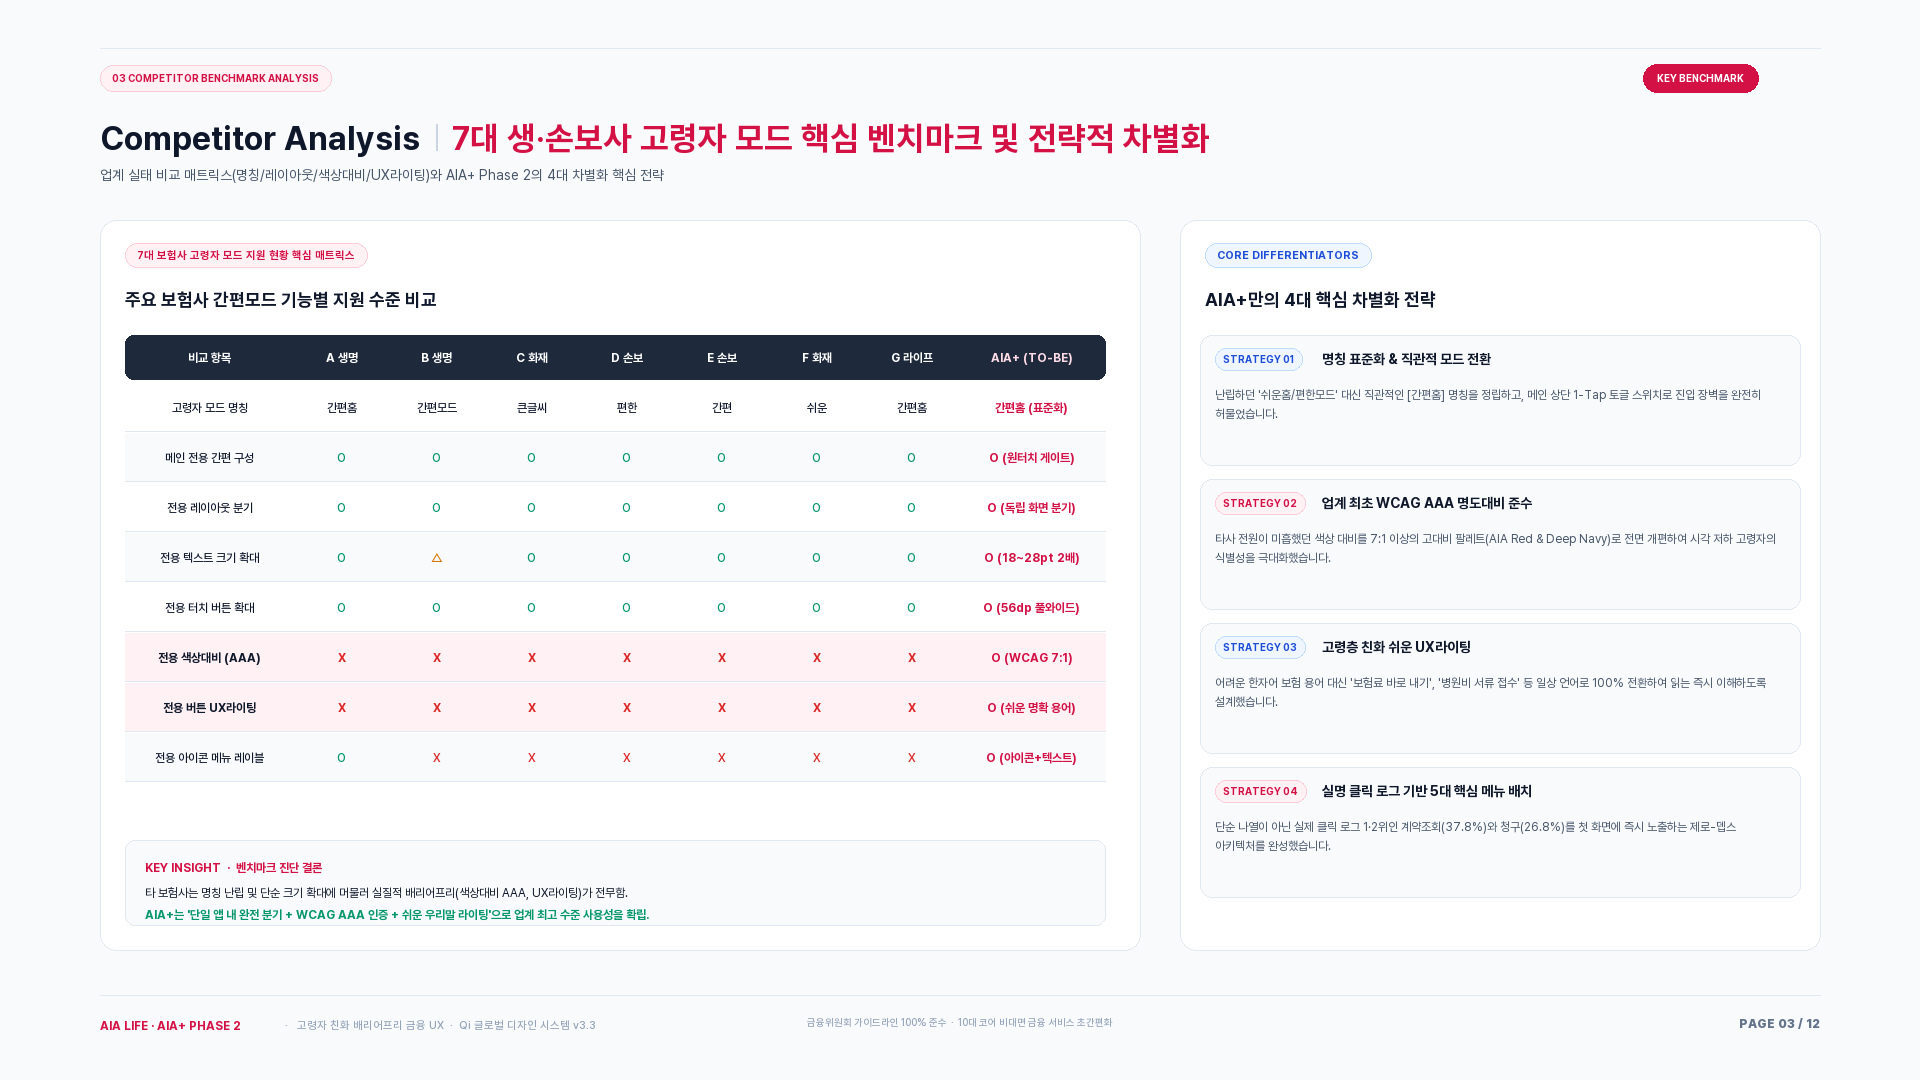
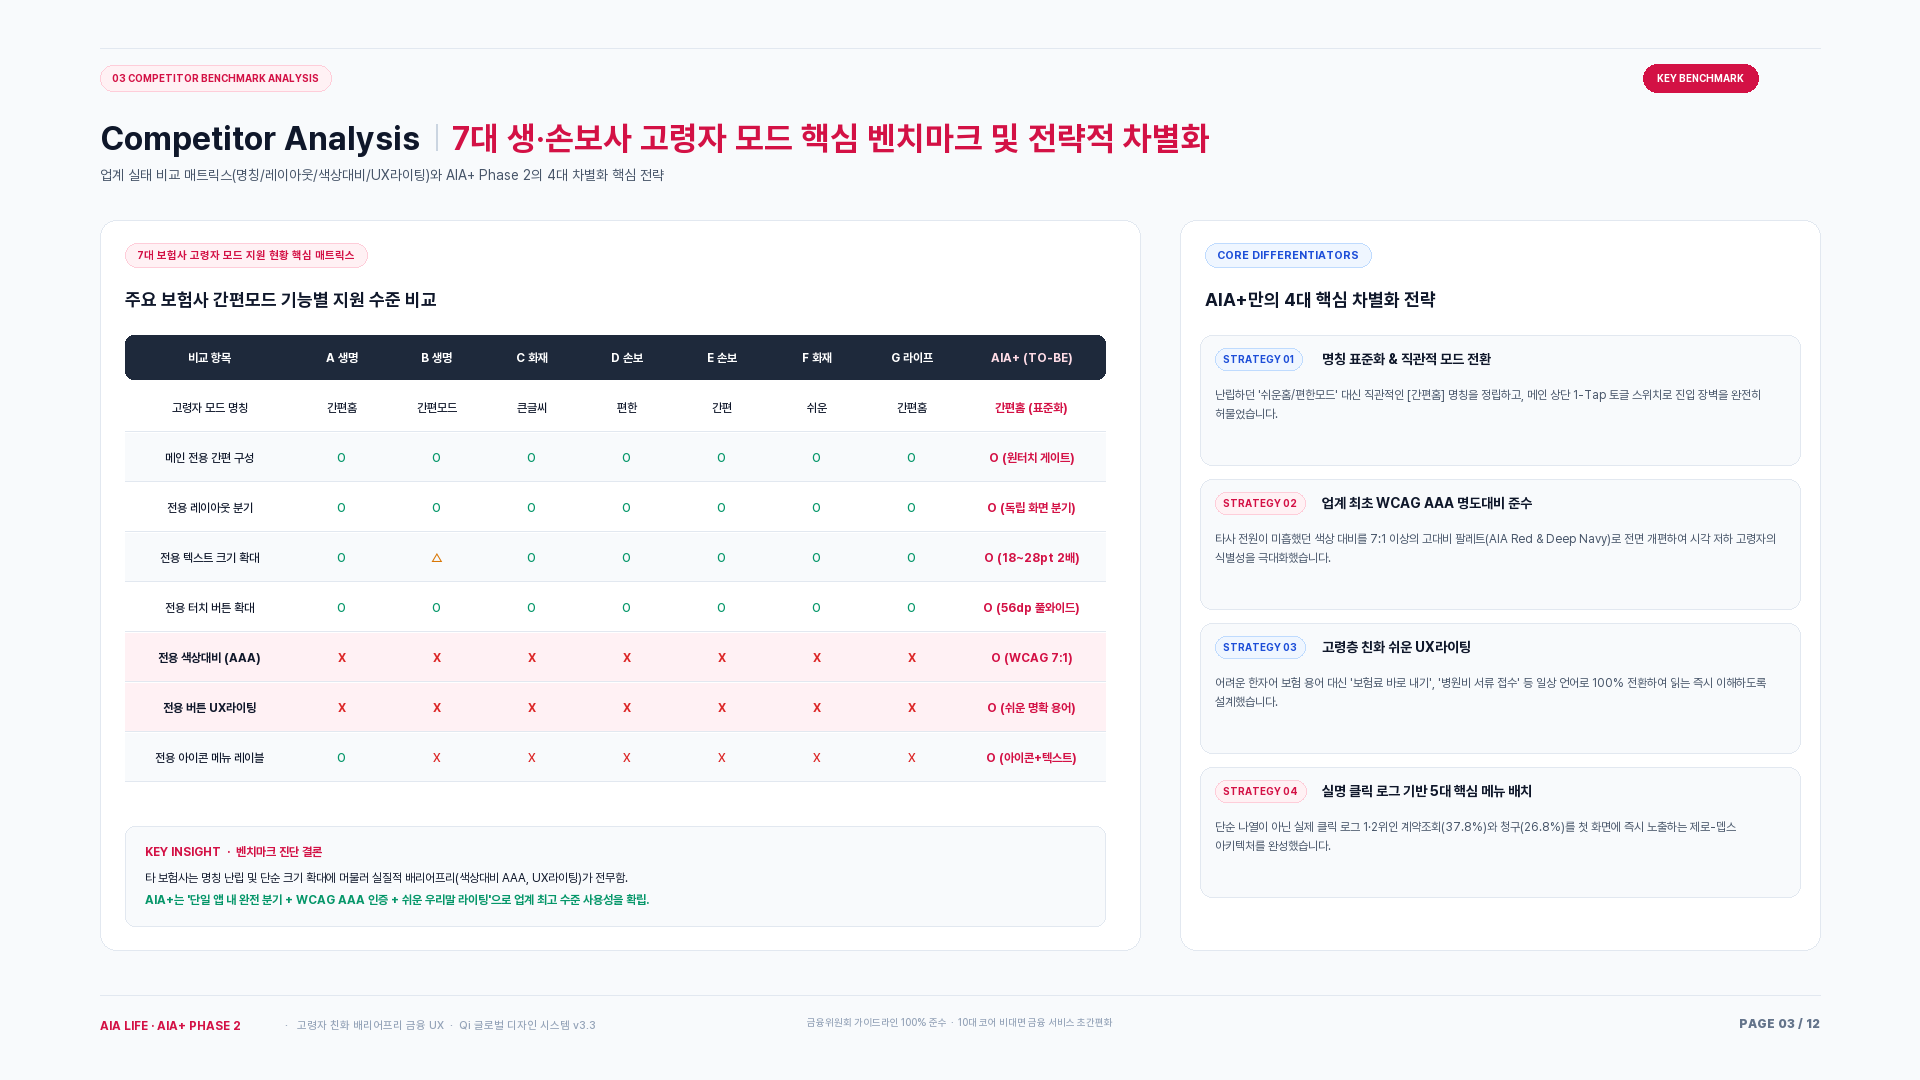
fix: balance top and bottom padding inside benchmark insight box on AIA+ slide 03

Changed region(s): [[0.0625, 0.7639, 0.3438, 0.8556]]

diff --git a/aia_phase2/deck_slides_01_04.py b/aia_phase2/deck_slides_01_04.py
@@ -457,10 +457,12 @@ def make_slide_03():
             draw.text((col_x[c_idx] + col_w[c_idx]//2, r_y + 24), val, font=get_font(11.5, 'bold' if c_idx==8 or is_highlight else 'medium'), fill=txt_col, anchor='mm')
         r_y += 50
         
-    draw.rounded_rectangle([col_x[0], card_y + card_h - 110, col_x[-1] + col_w[-1], card_y + card_h - 25], radius=10, fill=(248, 250, 252), outline=BORDER_LIGHT, width=1)
-    draw.text((col_x[0] + 20, card_y + card_h - 90), "KEY INSIGHT  ·  벤치마크 진단 결론", font=get_font(12, 'bold'), fill=AIA_RED)
-    draw.text((col_x[0] + 20, card_y + card_h - 65), "타 보험사는 명칭 난립 및 단순 크기 확대에 머물러 실질적 배리어프리(색상대비 AAA, UX라이팅)가 전무함.", font=get_font(11.5, 'regular'), fill=TEXT_LIGHT_MAIN)
-    draw.text((col_x[0] + 20, card_y + card_h - 43), "AIA+는 '단일 앱 내 완전 분기 + WCAG AAA 인증 + 쉬운 우리말 라이팅'으로 업계 최고 수준 사용성을 확립.", font=get_font(11.5, 'bold'), fill=(5, 150, 105))
+    note_top = card_y + card_h - 124
+    note_bot = card_y + card_h - 24
+    draw.rounded_rectangle([col_x[0], note_top, col_x[-1] + col_w[-1], note_bot], radius=10, fill=(248, 250, 252), outline=BORDER_LIGHT, width=1)
+    draw.text((col_x[0] + 20, note_top + 18), "KEY INSIGHT  ·  벤치마크 진단 결론", font=get_font(12, 'bold'), fill=AIA_RED)
+    draw.text((col_x[0] + 20, note_top + 44), "타 보험사는 명칭 난립 및 단순 크기 확대에 머물러 실질적 배리어프리(색상대비 AAA, UX라이팅)가 전무함.", font=get_font(11.5, 'regular'), fill=TEXT_LIGHT_MAIN)
+    draw.text((col_x[0] + 20, note_top + 66), "AIA+는 '단일 앱 내 완전 분기 + WCAG AAA 인증 + 쉬운 우리말 라이팅'으로 업계 최고 수준 사용성을 확립.", font=get_font(11.5, 'bold'), fill=(5, 150, 105))
     
     rx = 1180
     rw = 640
